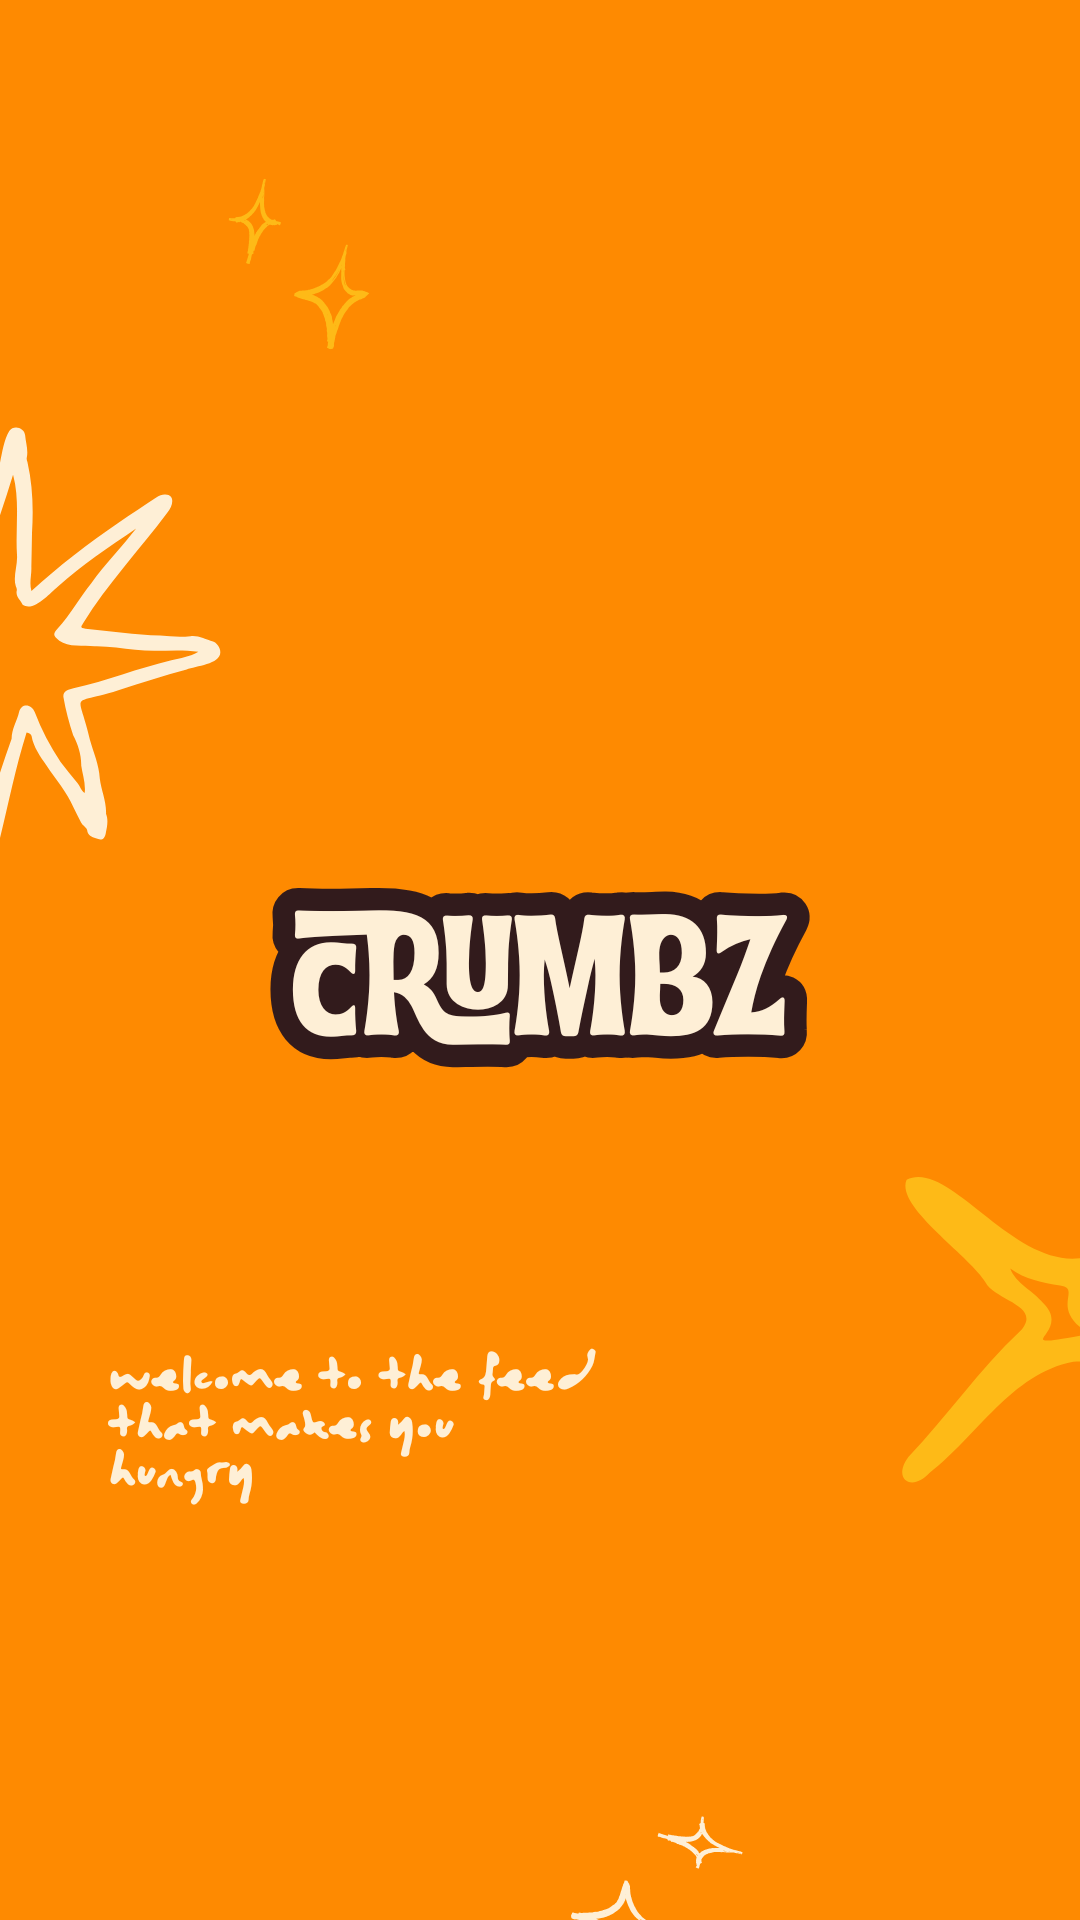
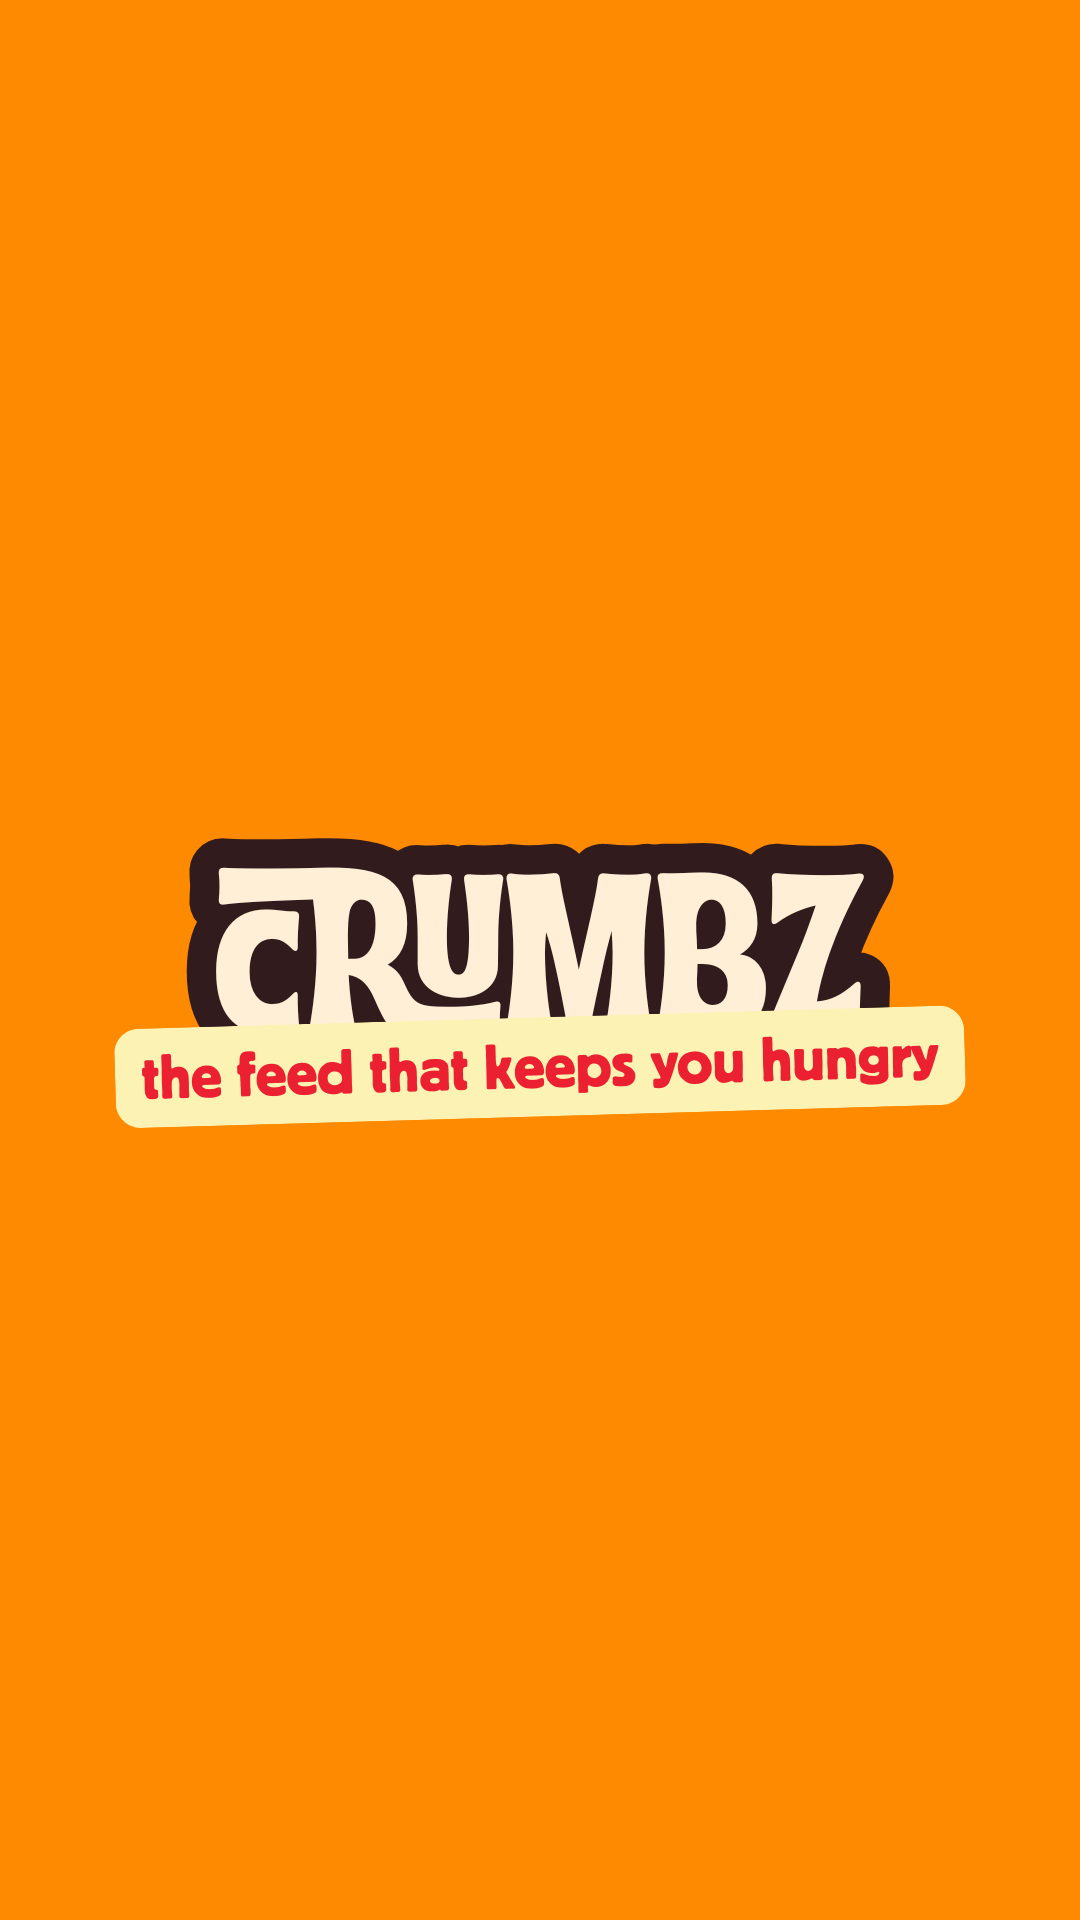
onboarding page

diff --git a/app/page.tsx b/app/page.tsx
@@ -2269,21 +2269,14 @@ export default function Page() {
               transition={{ duration: 0.35 }}
               className="relative flex min-h-screen flex-1 items-center justify-center overflow-hidden bg-[#F5A623]"
             >
-              <div className="flex w-full flex-col items-center justify-center px-8">
-                <Image
-                  src="/brand/crumbz-logo.png"
-                  alt="crumbz logo"
-                  width={1600}
-                  height={1600}
-                  className="h-auto w-full max-w-[40rem] object-contain"
-                  priority
-                />
-                <div className="-mt-4 w-full max-w-[36rem] rounded-[22px] bg-[#FFF0D0] px-4 py-3 text-center shadow-[0_10px_24px_rgba(44,26,14,0.14)]">
-                  <p className="text-[clamp(1.05rem,4.2vw,1.9rem)] font-extrabold tracking-[-0.04em] text-[#FF3D6B]">
-                    the feed that keeps you hungry
-                  </p>
-                </div>
-              </div>
+              <Image
+                src="/brand/crumbz-opening-exact.png"
+                alt="crumbz opening"
+                fill
+                className="object-contain"
+                priority
+                sizes="100vw"
+              />
 
               <button
                 type="button"
